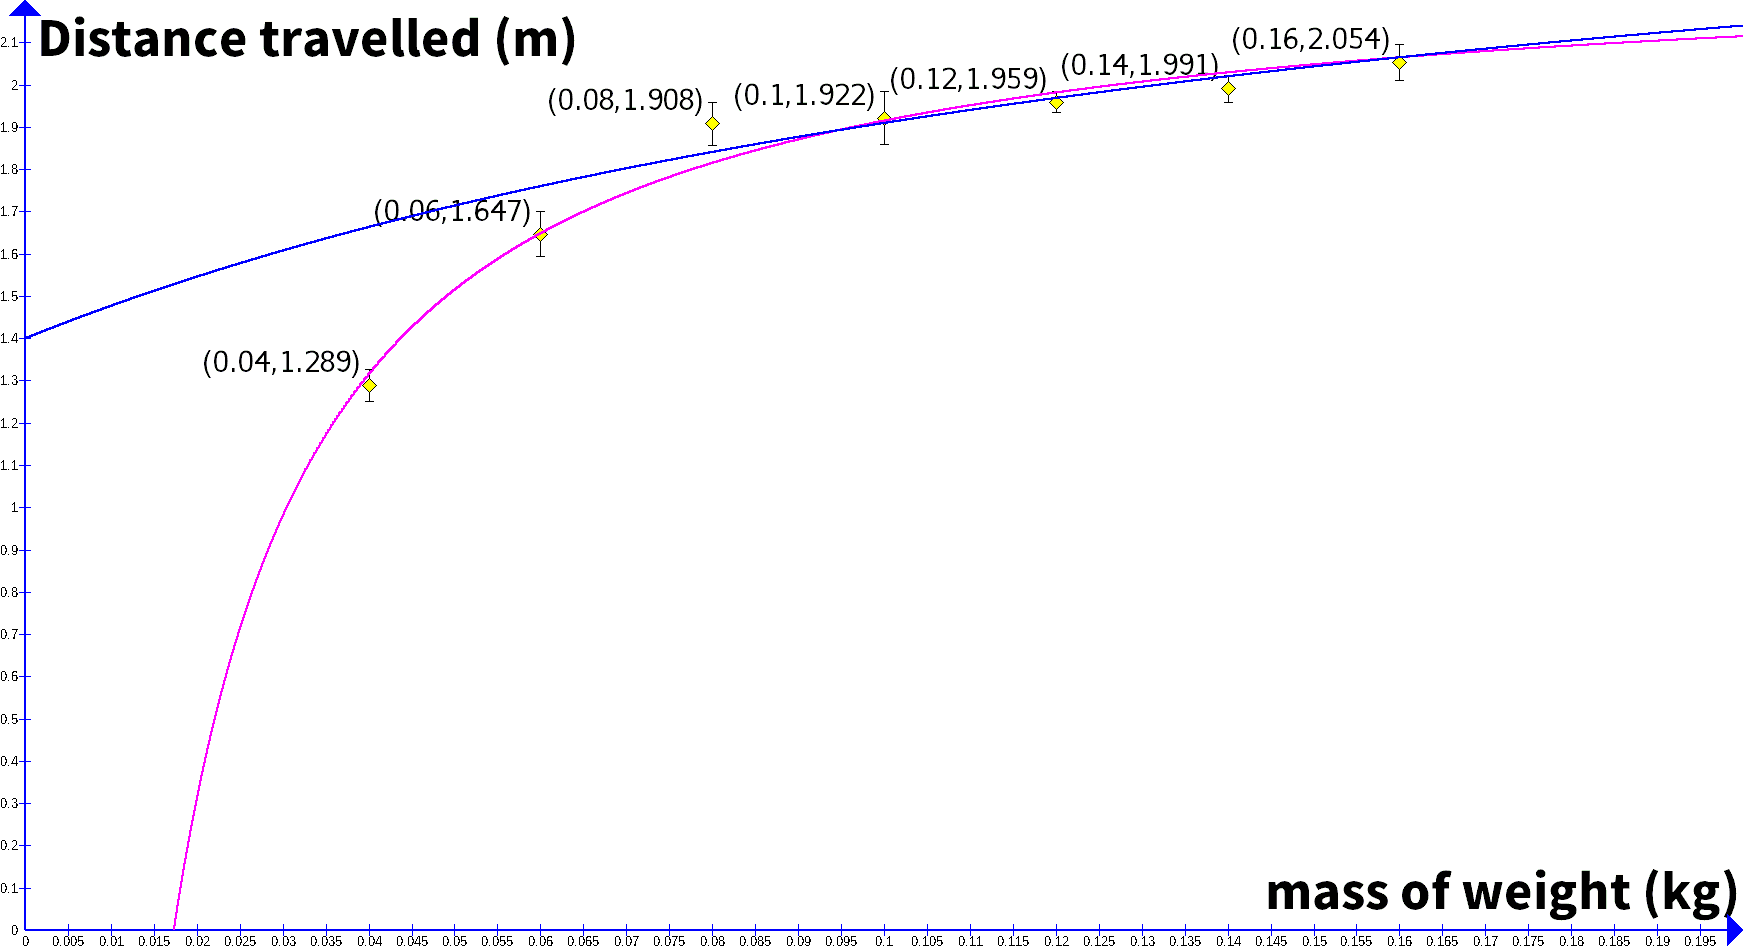
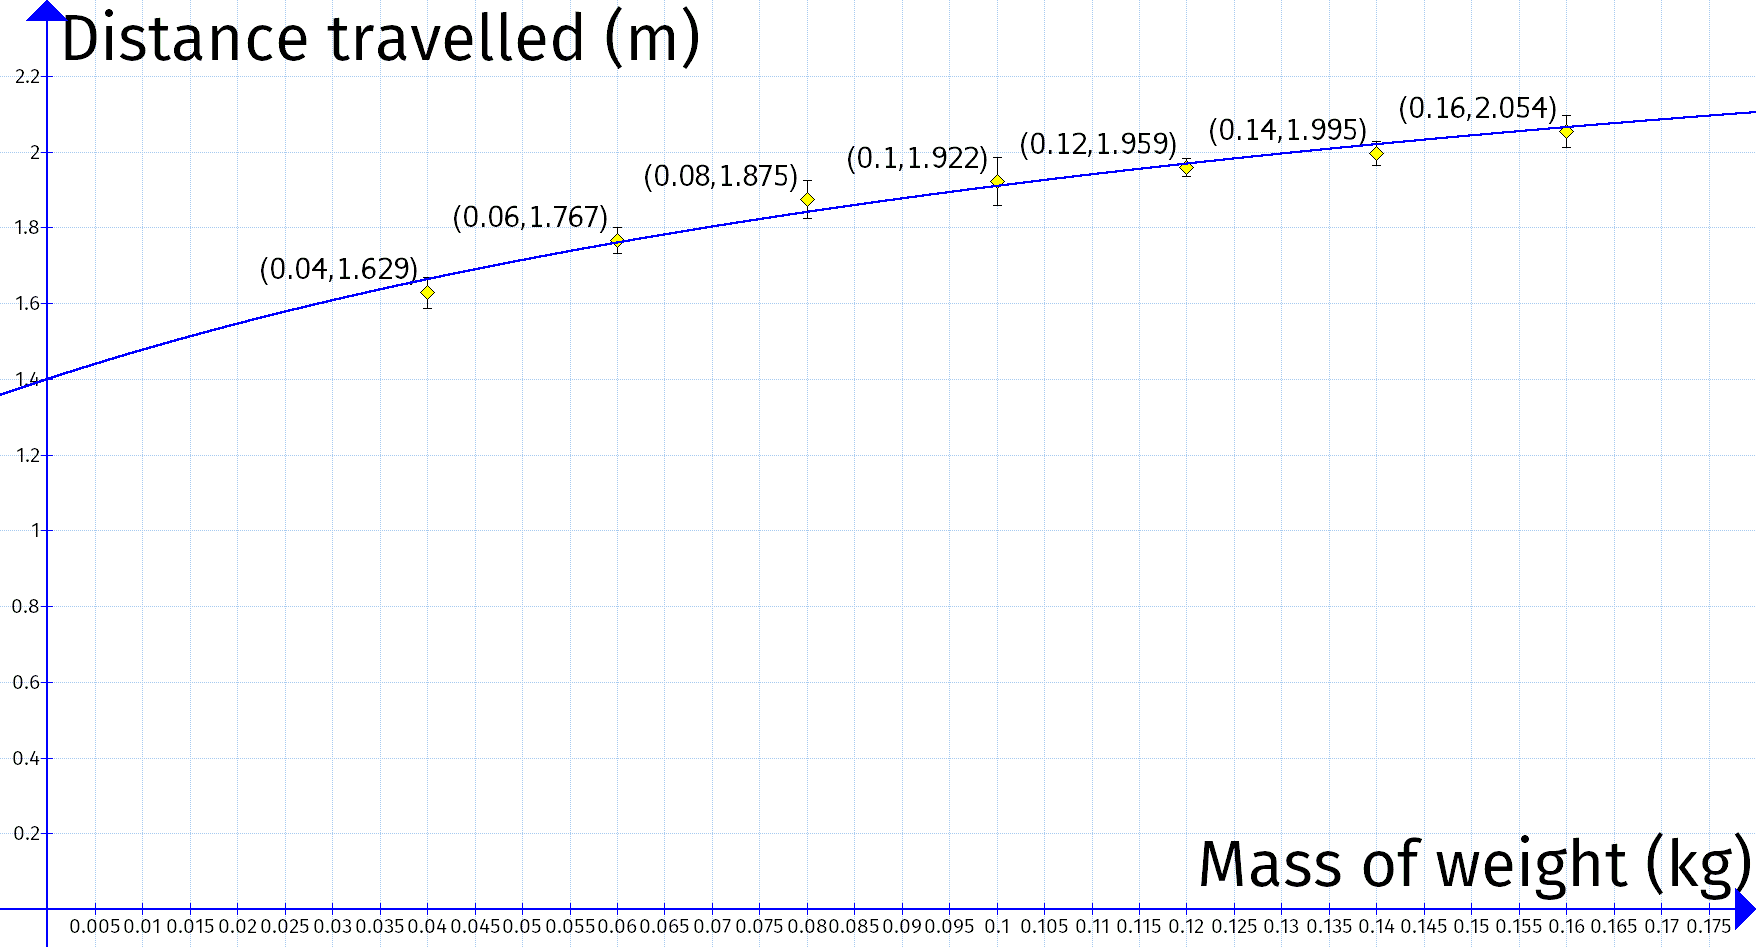
Add the correct data
The data previously entered in the data processing and data collection
sections was incorrect. It has been replaced with the correct data.

diff --git a/investigation.tex b/investigation.tex
@@ -229,23 +229,23 @@ numbers underneath Distance refer to.
     \centering
         \def\arraystretch{1.5}
         \begin{tabular}{c|c|c|c|c|c}
-            \multirow{2}{*}{mass (kg) $\pm$ 0.0001} & 
+            \multirow{2}{*}{Mass (kg) $\pm$ 0.0001} & 
                 \multicolumn{5}{c}{Distance (m) $\pm$ 0.001}  \\ 
             \cline{2-6}
             & \nth{1} & \nth{2} & \nth{3} & \nth{4} & \nth{5}\\ 
             \hline
             \hline
-            0.04 & 1.263 & 1.330 & 1.315 & 1.254 & 1.281\\ 
+            0.04 & 1.663 & 1.630 & 1.615 & 1.654 & 1.581\\ 
             \hline
-            0.06 & 1.651 & 1.700 & 1.643 & 1.596 & 1.643\\ 
+            0.06 & 1.751 & 1.743 & 1.743 & 1.796 & 1.801\\ 
             \hline
-            0.08 & 1.858 & 1.922 & 1.920 & 1.935 & 1.905\\ 
+            0.08 & 1.858 & 1.904 & 1.846 & 1.894 & 1.873\\ 
             \hline
             0.10 & 1.978 & 1.944 & 1.944 & 1.883 & 1.859\\ 
             \hline
             0.12 & 1.949 & 1.961 & 1.984 & 1.944 & 1.959\\ 
             \hline
-            0.14 & 1.972 & 1.969 & 1.971 & 2.023 & 2.021\\ 
+            0.14 & 1.986 & 1.969 & 1.978 & 2.023 & 2.021\\ 
             \hline
             0.16 & 2.031 & 2.097 & 2.041 & 2.046 & 2.055\\ 
         \end{tabular}
@@ -276,21 +276,21 @@ negligible.
 \begin{table}[H]
     \centering
     \def\arraystretch{1.5}
-    \begin{tabular}{c|c|c}
-        Mass (kg) & Average & Error\\ 
+    \begin{tabular}{c||r|r}
+        Mass (kg) & Average Distance (m) & Error\\ 
         \hline
         \hline
-        0.04 & 1.289 & 0.0380\\ 
+        0.04 & 1.629 & 0.0410\\ 
         \hline
-        0.06 & 1.647 & 0.0534\\ 
+        0.06 & 1.767 & 0.0342\\ 
         \hline
-        0.08 & 1.908 & 0.0500\\ 
+        0.08 & 1.875 & 0.0290\\ 
         \hline
         0.10 & 1.922 & 0.0626\\ 
         \hline
         0.12 & 1.959 & 0.0246\\ 
         \hline
-        0.14 & 1.991 & 0.0318\\ 
+        0.14 & 1.991 & 0.0276\\ 
         \hline
         0.16 & 2.054 & 0.0430\\ 
     \end{tabular}
@@ -299,11 +299,10 @@ negligible.
 \end{table}
 
 \begin{figure}[H]
-    \label{fig:mass-distance-graph}
     \centering
     \includegraphics[scale=0.28]{mass-distance_graph}
-    \caption{Mass-Distance graph (trendline in pink, 
-        \autoref{eq:s_formula} in blue)}
+    \caption{Mass-Distance graph \autoref{eq:s_formula} in blue)}
+    \label{fig:mass-distance-graph}
 \end{figure}
 
 
